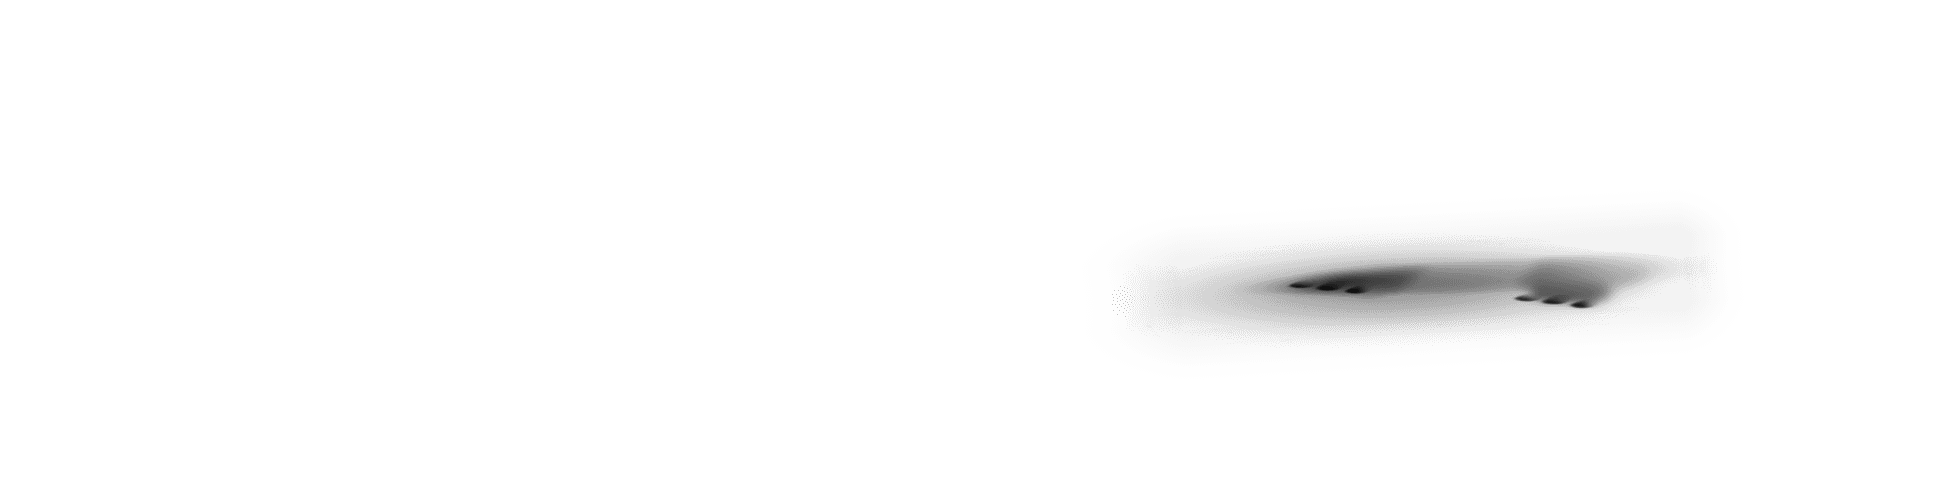
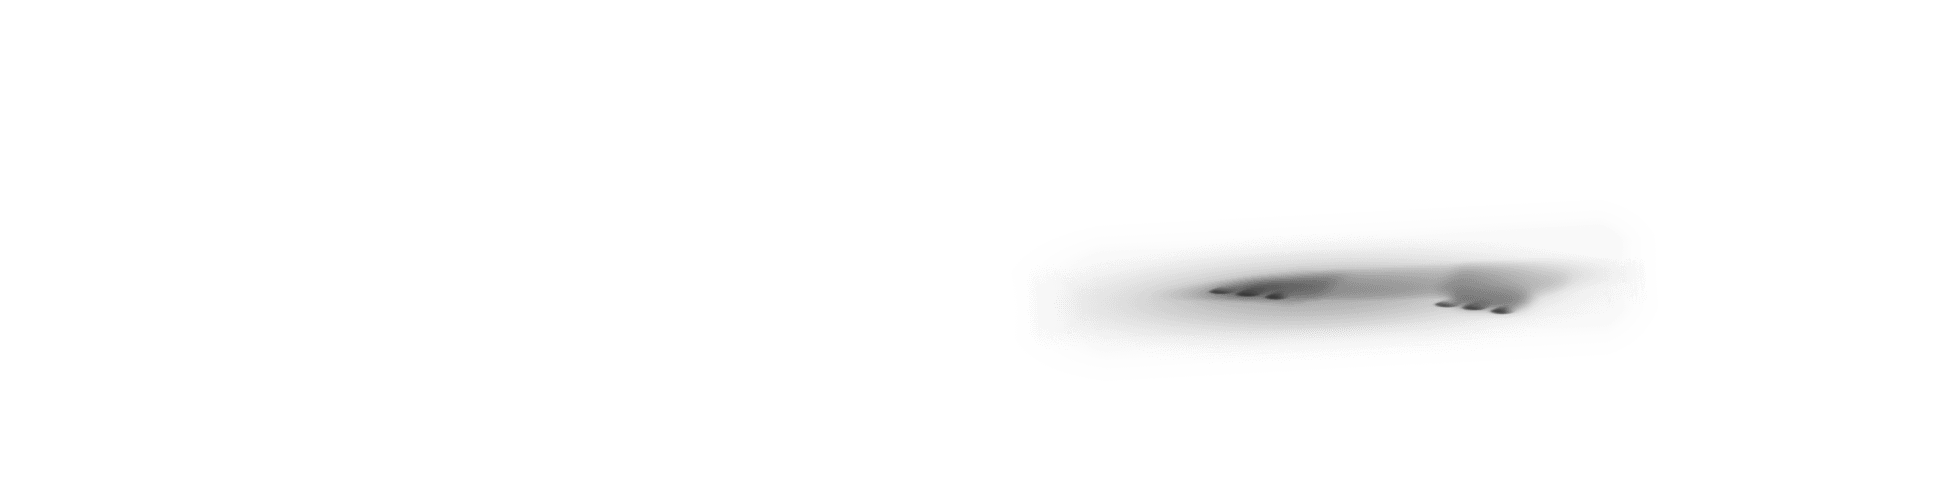
970x90

Changed region(s): [[0.5567, 0.51, 0.8969, 0.66]]

diff --git a/Speed/10608-01_970x250/index.html b/Speed/10608-01_970x250/index.html
@@ -23,25 +23,23 @@
     <div id="main">
         <div id="background"></div>
 
-        <!-- <img src="images/ref.png" id="ref" class="absolute full-width"/> -->
+        <!-- <img src="images/frame@2x.jpg" id="ref" style="opacity: .5; z-index: 111;" class="absolute full-width"/> -->
 
         <!-- <div id="frame-left" class="absolute frame"></div> -->
         <div id="frame-right" class="absolute frame"></div>
         <div id="frame-bottom" class="absolute frame"></div>
 
         <div id="headline">
-          <img src="images/headline-8.png" id="headline-8" class="absolute full-width headline" alt="" />
-          <img src="images/headline-7.png" id="headline-7" class="absolute full-width headline" alt="" />
-          <img src="images/headline-6.png" id="headline-6" class="absolute full-width headline" alt="" />
-          <img src="images/headline-5.png" id="headline-5" class="absolute full-width headline" alt="" />
-          <img src="images/headline-4.png" id="headline-4" class="absolute full-width headline" alt="" />
-          <img src="images/headline-3.png" id="headline-3" class="absolute full-width headline" alt="" />
-          <img src="images/headline-2.png" id="headline-2" class="absolute full-width headline" alt="" />
-          <img src="images/headline-1.png" id="headline-1" class="absolute full-width headline" alt="" />
+          <img src="images/headline-1.png" id="headline-1" class="absolute full-width headline hidden" alt="" />
+          <img src="images/headline-2.png" id="headline-2" class="absolute full-width headline hidden" alt="" />
+          <img src="images/headline-3.png" id="headline-3" class="absolute full-width headline hidden" alt="" />
+          <img src="images/headline-4.png" id="headline-4" class="absolute full-width headline hidden" alt="" />
+          <img src="images/headline-5.png" id="headline-5" class="absolute full-width headline hidden" alt="" />
+          <img src="images/headline-6.png" id="headline-6" class="absolute full-width headline hidden" alt="" />
         </div>
 
-        <img src="images/turtle.png" id="turtle" class="absolute full-width"/>
         <img src="images/turtle-shadow.png" id="turtle-shadow" class="absolute full-width"/>
+        <img src="images/turtle.png" id="turtle" class="absolute full-width"/>
         
         <img src="images/text1.png" id="text1" class="absolute full-width" alt="" />
 

diff --git a/Speed/10608-01_970x250/main.js b/Speed/10608-01_970x250/main.js
@@ -24,10 +24,11 @@ function animate() {
 
   // tl1.set(["#main_content"], { autoAlpha: 1, force3D: true });
   tl1.set(["#cta"], { force3D: false, rotation: .001 });
+  tl1.set(["#turtle-shadow"], { x:"38px", y:"-3px" });
   
   tl1.to(['#turtle', '#turtle-shadow'], 1,{ x: '+=970', ease: "power1.out" }, 0);
   tl1.to(['#turtle', '#turtle-shadow'], 0.5,{ y: '-=75', ease: "power1.out" }, 0);
-  tl1.staggerTo(['.headline'], 1,{ scale: 1, y: '-=75', x: '+=970', ease: "power1.out" }, 0.1, 0);
+  tl1.staggerTo(['.headline'], 0.5,{ scale: 1, autoAlpha:1,  ease: "back.out(1.1)" }, 0.2, 0);
 
   tl1.to(['#frame-left'], 1,{ x: '+=100', ease: "power1.out" }, '+=0');
   tl1.to(['#frame-right'], 1,{ x: '-=100', ease: "power1.out" }, '<');

diff --git a/Speed/10608-01_970x250/styles.css b/Speed/10608-01_970x250/styles.css
@@ -39,14 +39,14 @@ html, body {
 }
 
 .headline {
-  top: 75px;
-  left: -970px;
-  transform: scale(0);
+  top: 0px;
+  left: 0px;
+  transform: scale(2.5);
 }
 
 #turtle,
 #turtle-shadow {
-  top: 75px;
+  top: 55px;
   left: -970px;
 }
 
@@ -56,14 +56,14 @@ html, body {
 
 #logo {
   width: 150px;
-  top: 131px;
-  left: 790px;
+  top: 135.5px;
+  left: 794.5px;
 }
 
 #cta {
   width: 126px;
-  top: 30px;
-  left: 30px;
+  top: 187px;
+  left: 423px;
 }
 
 .frame {

diff --git a/index.html b/index.html
@@ -60,6 +60,7 @@
         <a href="Speed/10608-01_160x600/index.html" target="_blank">160x600</a>
         <a href="Speed/10608-01_300x250/index.html" target="_blank">300x250</a>
         <a href="Speed/10608-01_300x600/index.html" target="_blank">300x600</a>
+        <a href="Speed/10608-01_970x250/index.html" target="_blank">970x250</a>
     </div>
 </body>
 </html>
